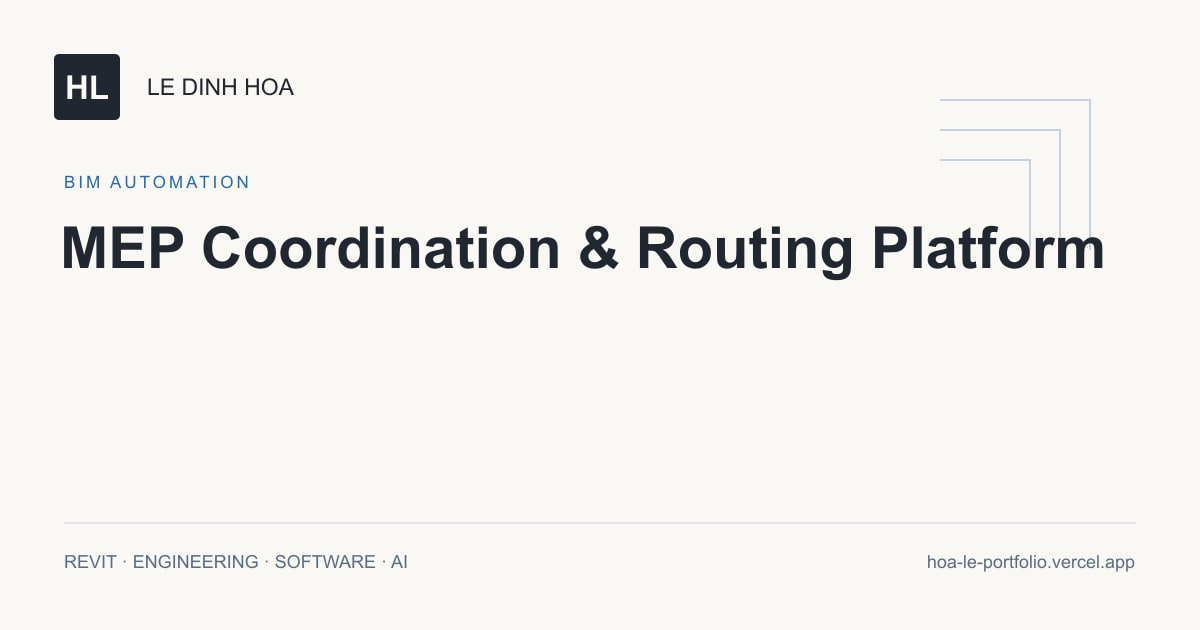
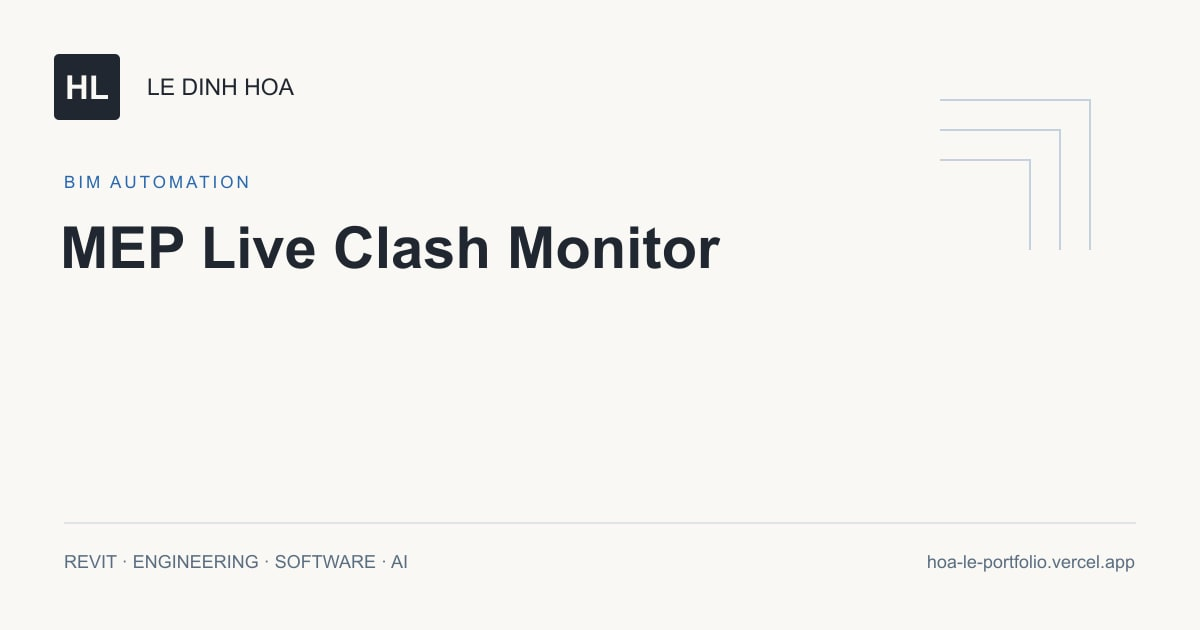
Home_1109

Changed region(s): [[0.1542, 0.3619, 0.925, 0.4524]]

diff --git a/src/dmitry/plannedAddins.js b/src/dmitry/plannedAddins.js
@@ -1,4 +1,4 @@
-// Product-scale roadmap concepts, not implemented or tested add-ins.
+// Platform roadmap and repository-backed add-in details.
 const planned = {
   customer:'Personal product concept', role:'Architecture & roadmap planning',
   status:'Planned platform — implementation and testing pending',
@@ -32,25 +32,37 @@ export const plannedAddins = {
     ],
   },
   'hoa-project-60': {
-    ...planned,
-    title:'MEP Coordination & Routing Platform',
-    description:'A proposed Revit platform for inspecting MEP system topology, reviewing coordination issues, comparing route alternatives, and applying approved routing changes with connection verification.',
+    title:'MEP Live Clash Monitor',
+    customer:'Personal Revit add-in project',
+    role:'Revit Add-in Developer',
+    status:'Revit 2023 add-in — native Revit integration validation pending',
+    description:'A Revit 2023 add-in that checks physical clashes when drawing or moving pipes, ducts, cable trays, and conduits. It checks host geometry and directly placed loaded Revit links before transaction commit, with an Ignore/Cancel review dialog and session-based recognition of accepted clash regions.',
+    tools:['C# 7.3','.NET Framework 4.8','Revit 2023 API','WPF / XAML'],
+    scopeNote:'Source project: MEP_Warning_Clash_ver1. Detection runs at transaction commit, not during mouse-move preview. Build and standalone regression checks do not establish native Revit transaction, geometry, link-transform, or UI correctness.',
+    sections:[],
+    links:[['Source code','https://github.com/DinhHoaLe/MEP_Warning_Clash_ver1']],
     toolContent:[
-      {title:'Product Vision',paragraphs:['Bring MEP network inspection, coordination findings, route planning, preview, and post-change validation into a single engineering workflow. Proposed routes remain subject to engineering review.']},
-      {title:'Planned Modules',items:[
-        'System topology: build a connector-based network view and identify open ends or disconnected branches.',
-        'Coordination review: inspect supported host/link geometry and report verified conflicts and clearance-rule findings.',
-        'Route planning: propose alternatives for a bounded straight rigid pipe or duct segment using explicit offsets, exclusions, and fitting constraints.',
-        'Change preview: compare existing and proposed geometry, affected elements, and connection requirements before applying a route.',
-        'Post-change checks: verify connections, types, dimensions, system information, and remaining coordination issues.',
+      {title:'Problem',paragraphs:['Drawing or moving MEP elements can introduce physical overlaps with architectural, structural, or MEP geometry. This add-in brings a clash review into the current editing operation so the user can accept the reported overlap or cancel the operation.']},
+      {title:'Key Features',items:[
+        'Start monitoring once, then use normal Revit drawing and Move tools; no preselection or Finish step is required.',
+        'Check added or geometry-changed host pipes, ducts, cable trays, and conduits against supported host elements and directly placed loaded RVT links.',
+        'Filter candidates by category and bounding box, then check positive-volume solid intersections; exclude direct and one-fitting-hop host connections.',
+        'Review a WPF dialog with expandable element IDs, Revit Link names, and linked target IDs. Ignore accepts the reported clashes for that operation; Cancel, Esc, or closing the dialog rolls back the current transaction.',
+        'Remember accepted element pairs and overlap regions per document for the current session. An unchanged accepted crossing avoids repeated prompts; a changed region, new target, or recurrence after a committed resolution requires review again.',
+        'Keep unrelated native Revit errors and geometry-validation errors blocking; only the reviewed custom clash warnings are handled.',
+        'Provide Start/Stop commands and an optional selected-element clash audit.',
       ]},
-      {title:'Initial Release Scope',paragraphs:['Start with a single selected horizontal rigid pipe or duct in a demo model, a small explicit obstacle set, and reviewed vertical-offset alternatives. Exclude complete network regeneration, flexible or branched routes, fabrication parts, and claims of globally optimal routing from the initial release.']},
-      {title:'Proposed Architecture',paragraphs:['Use a Revit geometry/connector adapter, a scoped network graph, configurable engineering constraints, a route-candidate generator, a preview interface, and a transaction-based change executor. Separate geometry checks from route ranking and from engineering approval.']},
-      {title:'Workflow',paragraphs:['Select system scope → Inspect network and obstacles → Set constraints → Generate and compare supported alternatives → Review route → Apply → Verify connections and geometry → Report results.']},
-      {title:'Validation Plan',items:[
-        'Use seeded demo clashes and known network connections to check detection coverage and route feasibility.',
-        'Test rotated links, incompatible fittings, insufficient clearance, minimum segment lengths, and unsatisfied connection constraints.',
-        'Confirm that rejected or failed routes leave the original model intact. Record unresolved issues rather than reporting an unverified clash-free result.',
+      {title:'Workflow',paragraphs:['Start monitor → Draw or move MEP normally → Filter changed-element candidates → Check solid intersections in the host and loaded links → Review Ignore/Cancel → Commit the accepted operation or roll back the current transaction.']},
+      {title:'Implementation',paragraphs:['C# 7.3, .NET Framework 4.8, x64, Revit 2023 API, and WPF/XAML, with no NuGet dependencies. An IUpdater detects changed MEP geometry; a startup failure-processing handler presents the clash decision. Commit finalizers promote accepted regions only after a successful commit. Linked solids are transformed into host coordinates, and acceptance keys distinguish separate placements of the same linked model.']},
+      {title:'Installation & Operation',paragraphs:['For Add-In Manager (Manual), install the matching V3 startup helper and restart Revit, then load the main DLL and run StartMonitorCommand. Stop through the same host before rebuilding or switching hosts. Alternatively, install the full application package for automatic startup and ribbon Start/Stop controls.']},
+      {title:'Validation Status',paragraphs:['The repository reports builds against Revit 2023 assemblies and 40 standalone bookkeeping/acceptance assertions, including linked-ID collisions and repeated link instances. These checks do not execute native Revit Boolean geometry, link transforms, failure UI, or transaction finalizer order. The Ignore/Cancel interaction and host/link integration checklist still require live Revit validation.']},
+      {title:'Current Limitations',items:[
+        'Physical volume overlaps only; touching without overlap is not a clash. Clearance solving and automatic rerouting are not implemented.',
+        'No initial full-model scan. Moving only an obstacle or moving/reloading a link does not independently scan stationary host MEP.',
+        'Only directly placed loaded RVT links are checked; nested links are not traversed, and host-view phase/design-option visibility matching is not implemented.',
+        'Mirrored links and complex Boolean geometry require native integration validation. Geometry extraction/intersection errors remain blocking validation errors.',
+        'Detection is synchronous before commit; large edits or complex geometry can pause Revit. Cancel can roll back multiple changes within the same native transaction.',
+        'Accepted regions are session-only and are not saved in RVT files. Stop, Undo/Redo, document close, and relevant deletion events clear the corresponding acceptance state.',
       ]},
     ],
   },

diff --git a/src/profile.js b/src/profile.js
@@ -148,10 +148,10 @@ projects.splice(0,0,...[
   ...['59','60'].map(number=>({
     ...projectDetails[`hoa-project-${number}`],
     id:`hoa-project-${number}`, number, category:'BIM Automation',
-    context:'Personal prototype concept', projectType:'Prototype',
+    context:number==='60' ? 'Personal Revit add-in project' : 'Personal prototype concept', projectType:number==='60' ? 'Personal' : 'Prototype',
     textCard:false, image:'/profile/edited/addin-symbol-sheet-v5.png', stats:'BIM Automation',
-    cardCategory:'REVIT ADD-IN', cardFooter:'PLANNED PROTOTYPE',
-    cardCredit:'Implementation pending',
+    cardCategory:'REVIT ADD-IN', cardFooter:number==='60' ? 'LIVE CLASH MONITOR' : 'PLANNED PROTOTYPE',
+    cardCredit:number==='60' ? 'Personal Revit add-in project' : 'Implementation pending',
   })),
   {
     id: 'hoa-project-52', number: '52',

diff --git a/src/projectRoutes.js b/src/projectRoutes.js
@@ -9,6 +9,7 @@ export function projectPath(id) {
   return '/projects/' + entry[1] + (duplicate ? '-' + id.replace('hoa-project-', '') : '');
 }
 export function projectId(path) {
+  if (path === '/projects/mep-coordination-and-routing-platform') return 'hoa-project-60';
   return projects.find(project => projectPath(project.id) === path || '/projects/' + project.id === path)?.id;
 }
 export function canonicalProjectPath(path) {
